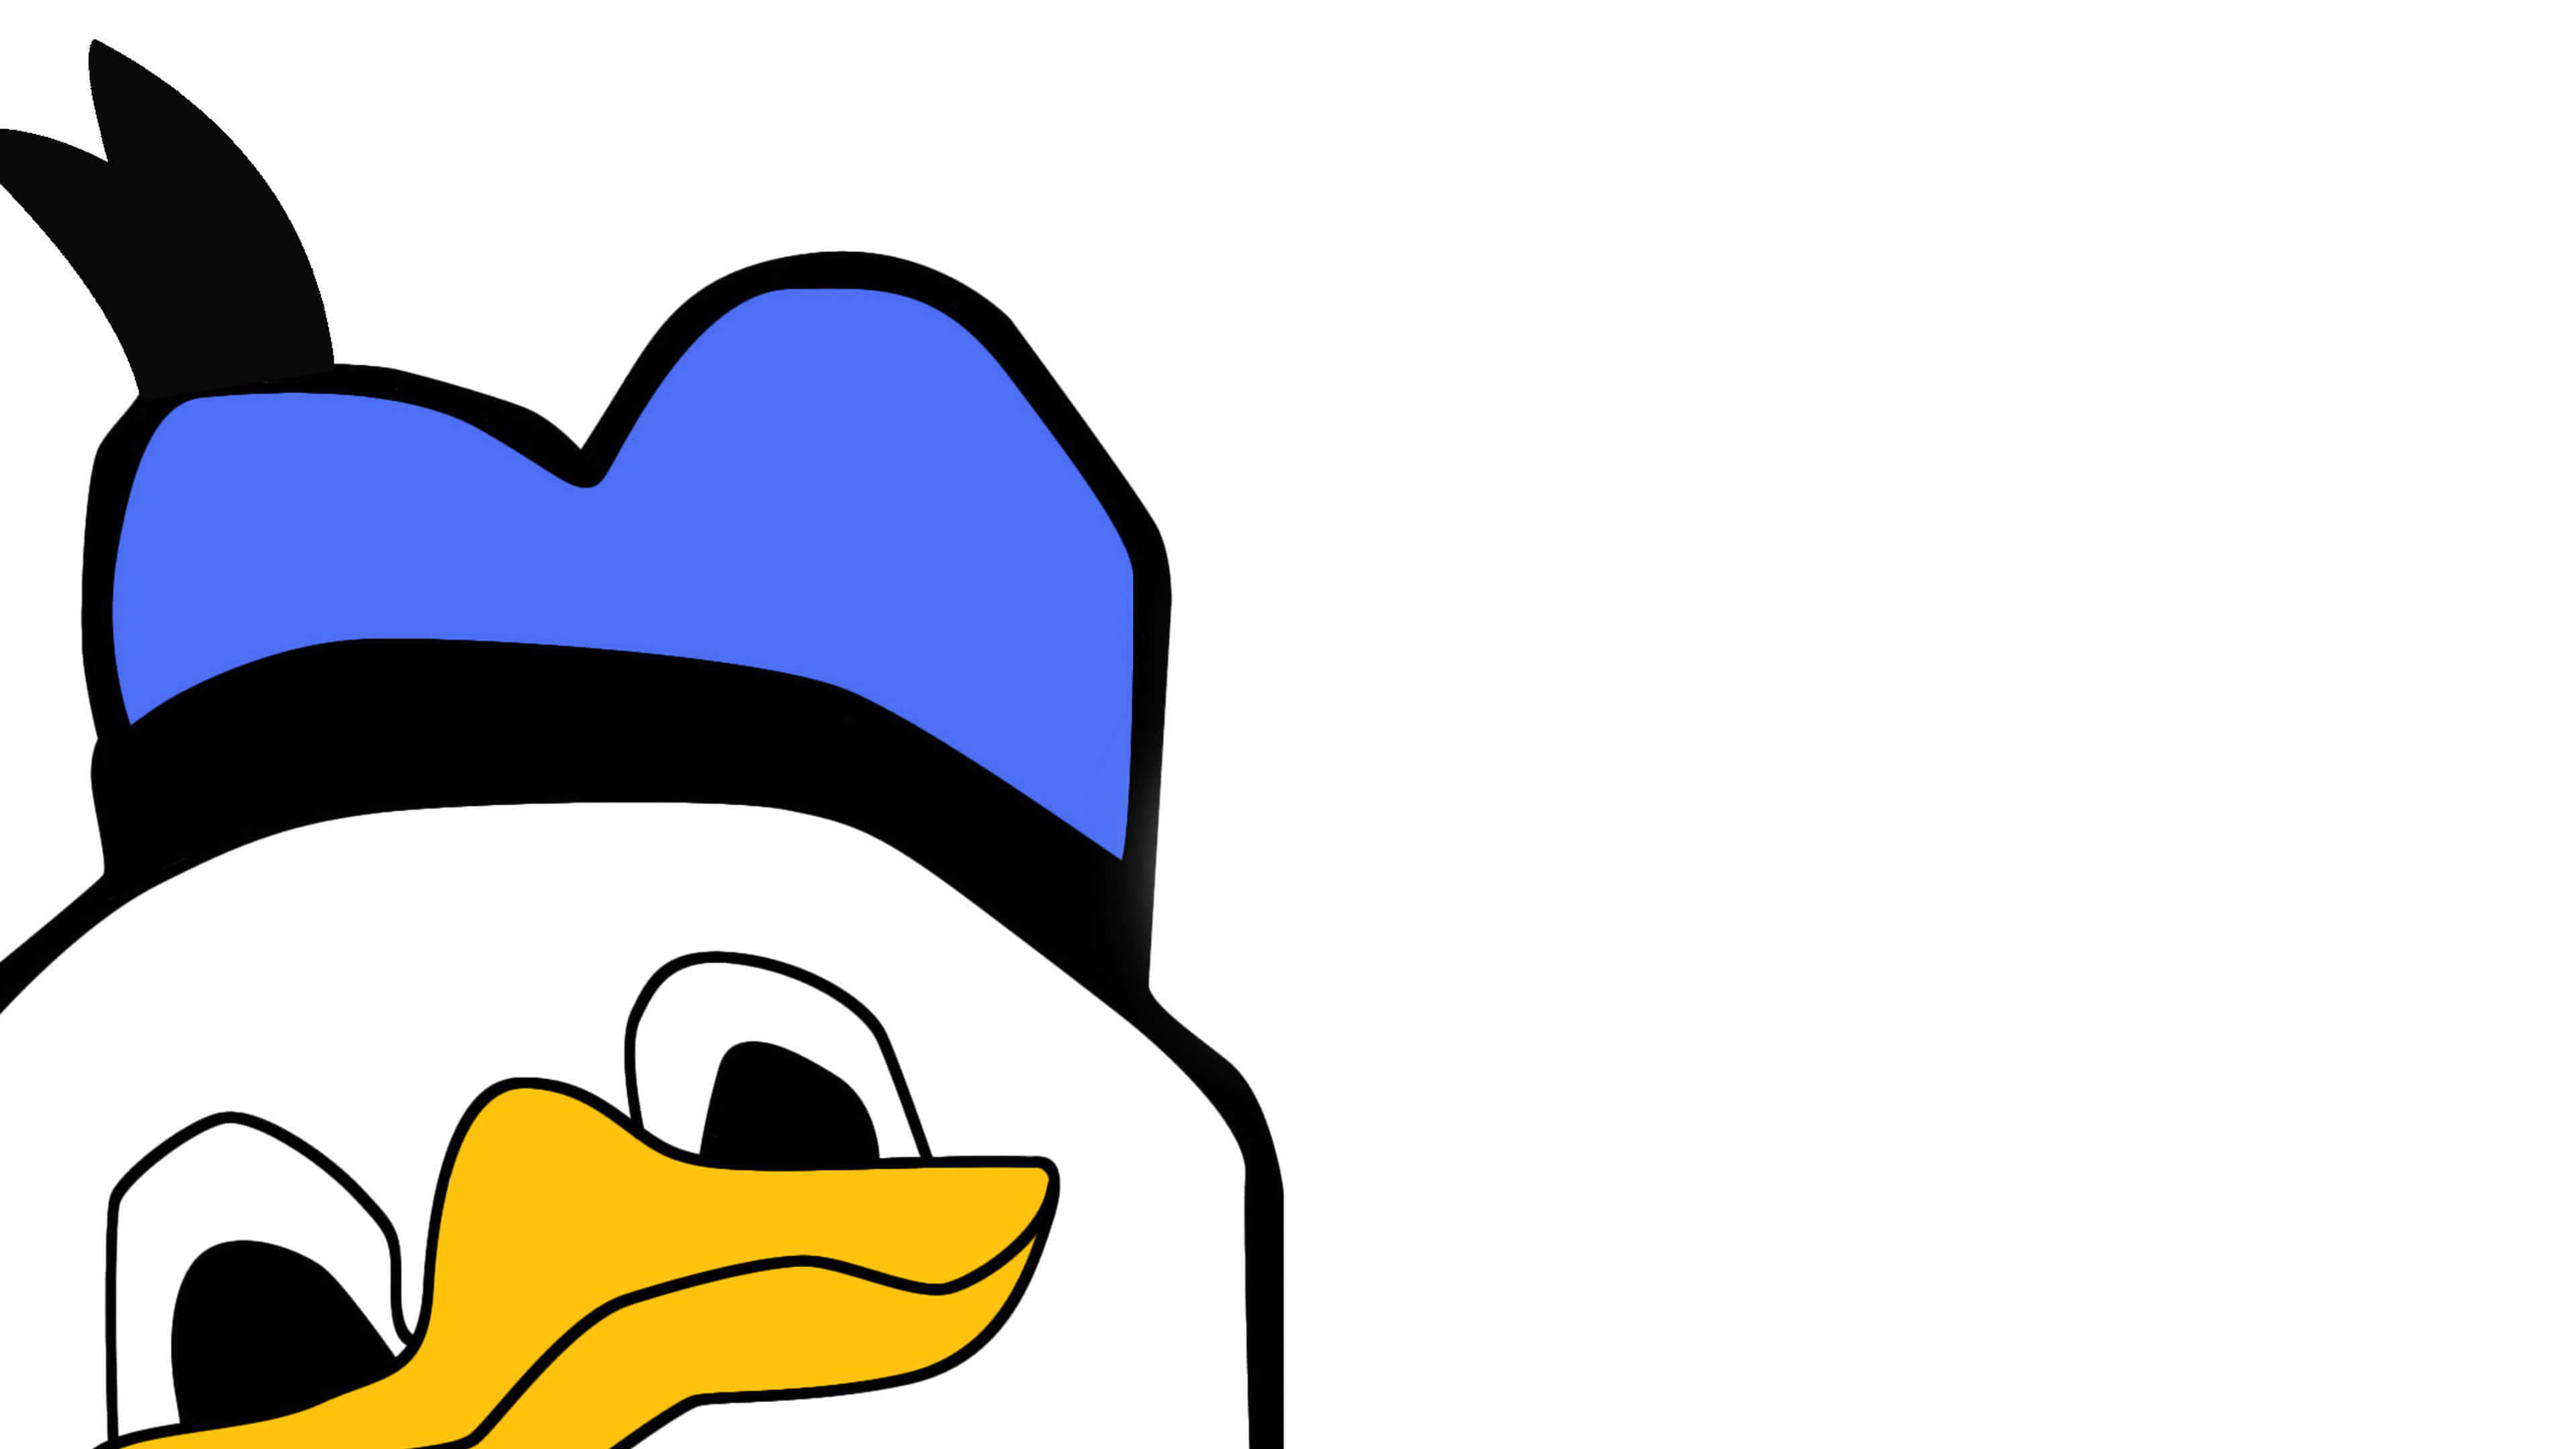
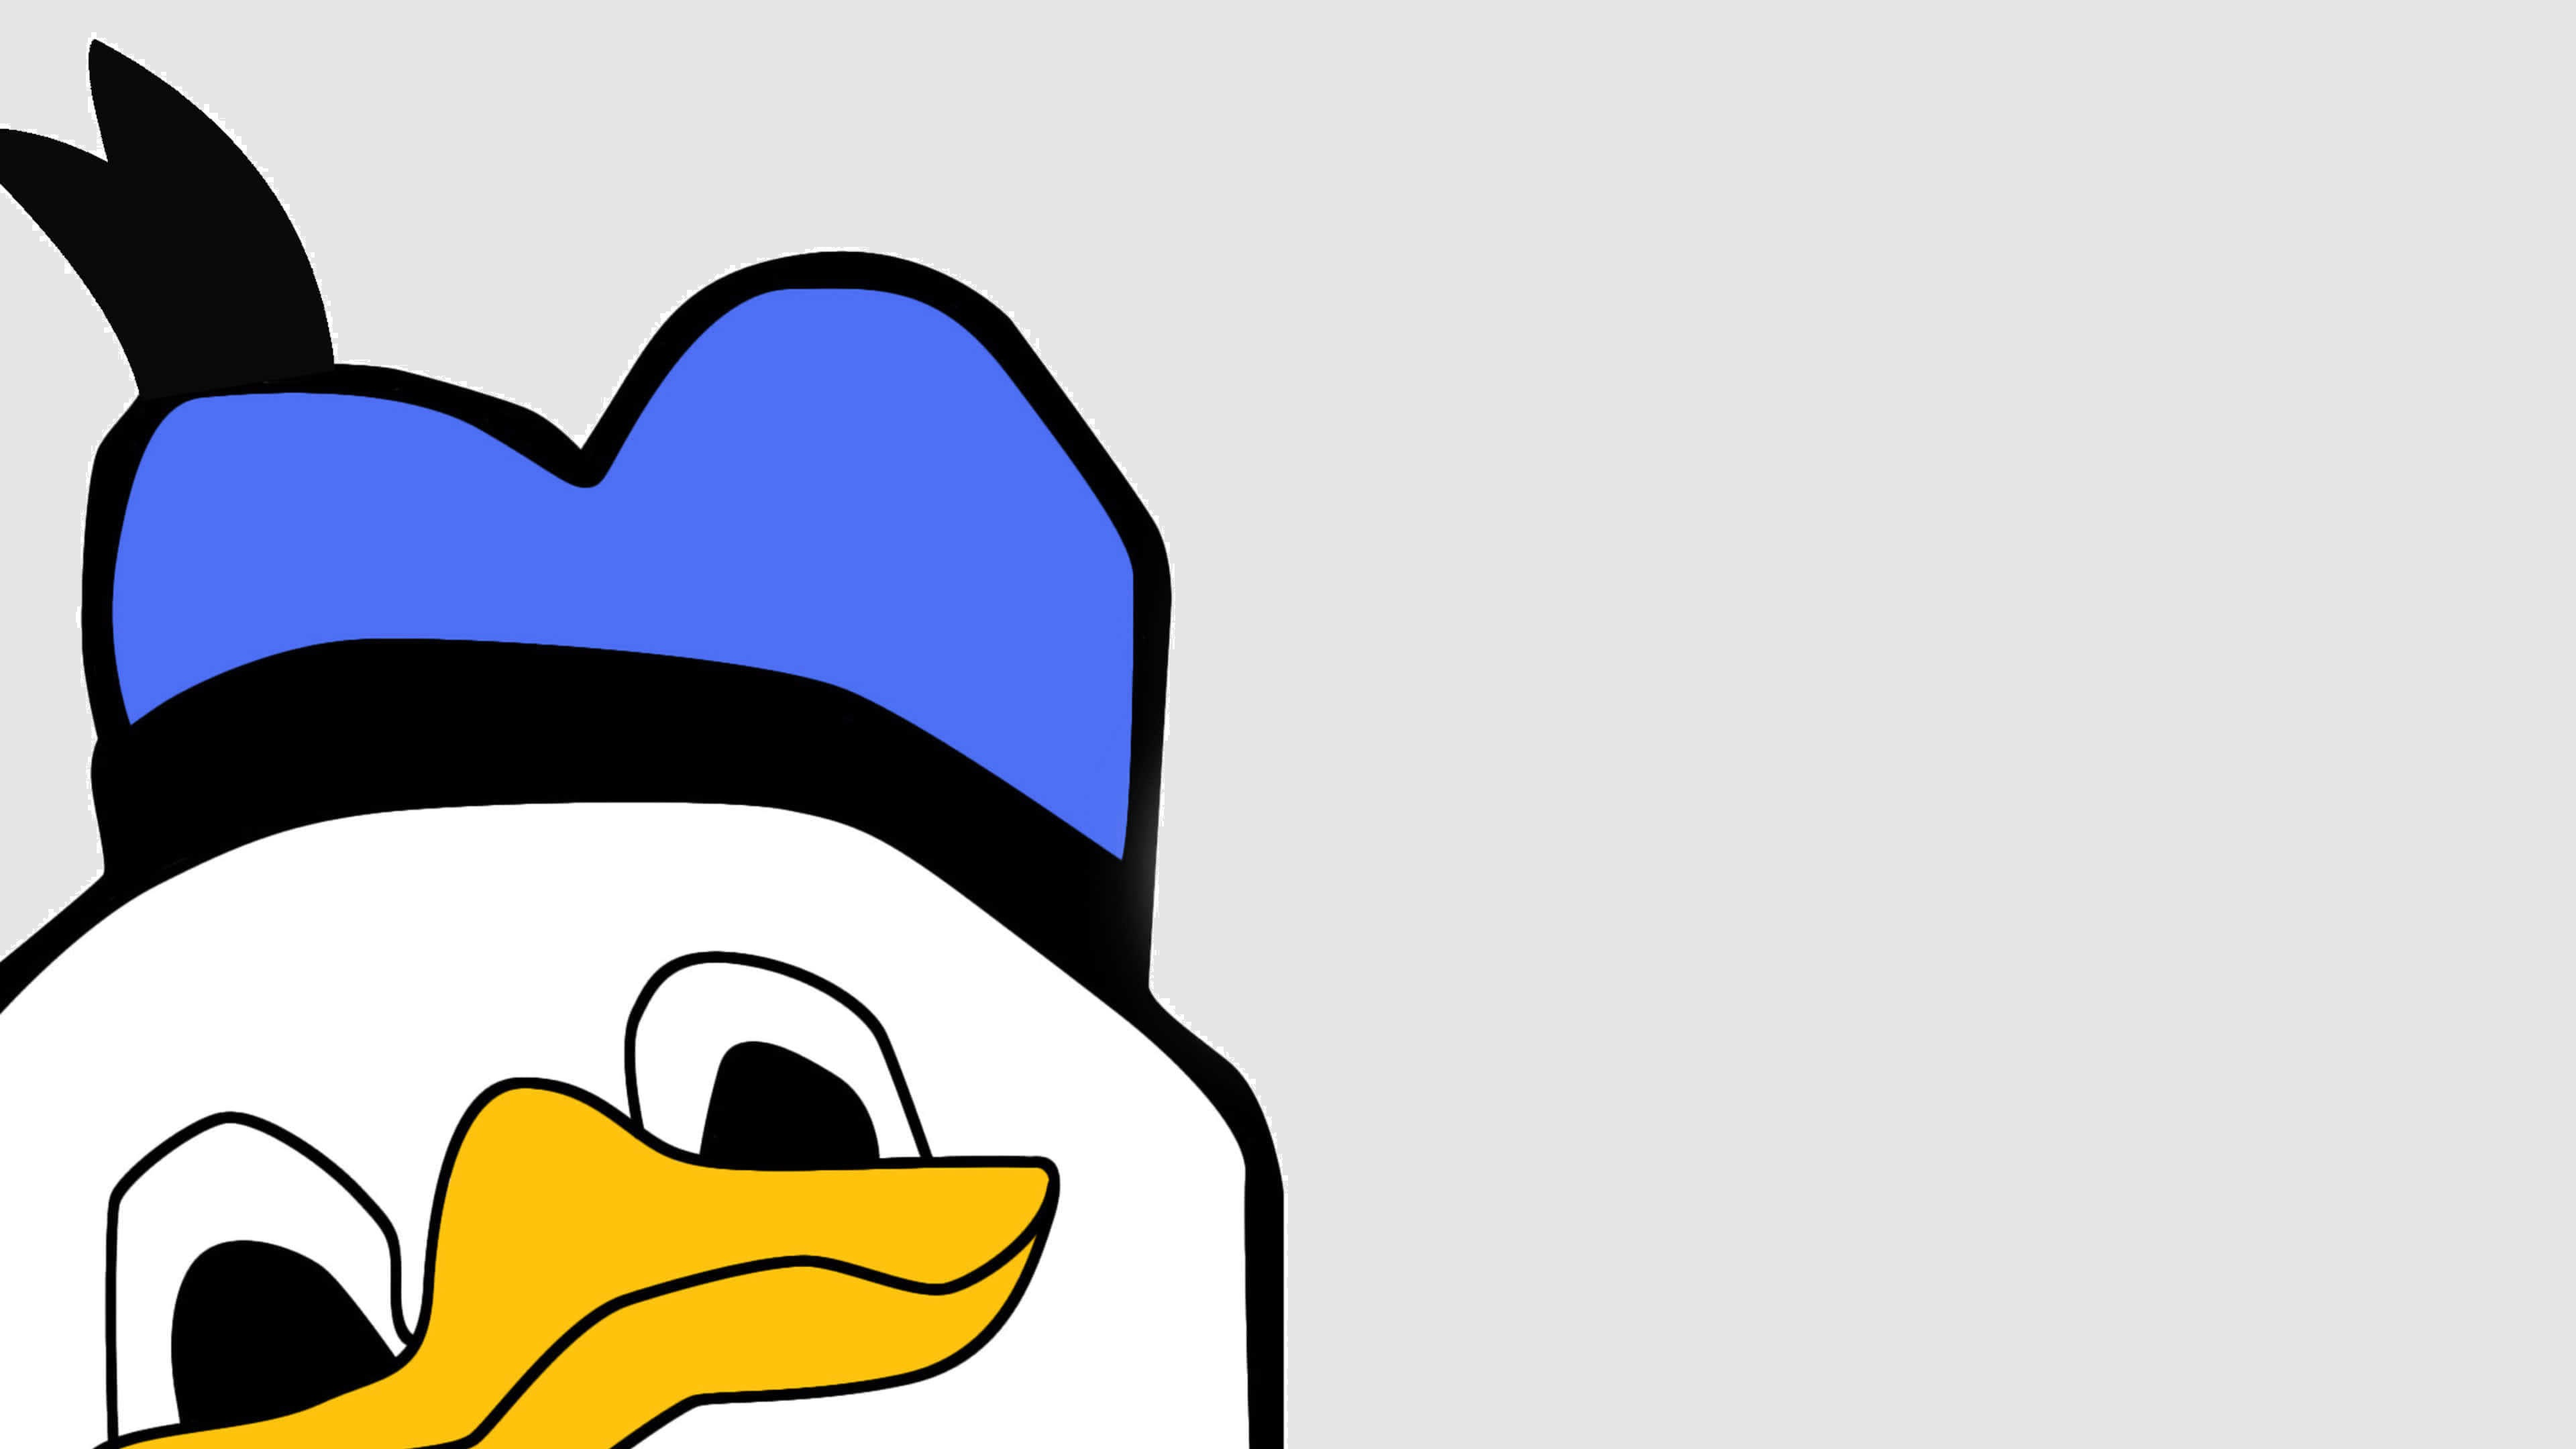
fix- background image

diff --git a/styles.css b/styles.css
@@ -6,7 +6,7 @@
 
 body{
     background-image:url(dolanduck.jpg);
-    background-size: 100% 100%;
+    background-size: cover;
     background-repeat: no-repeat;
 }
 
